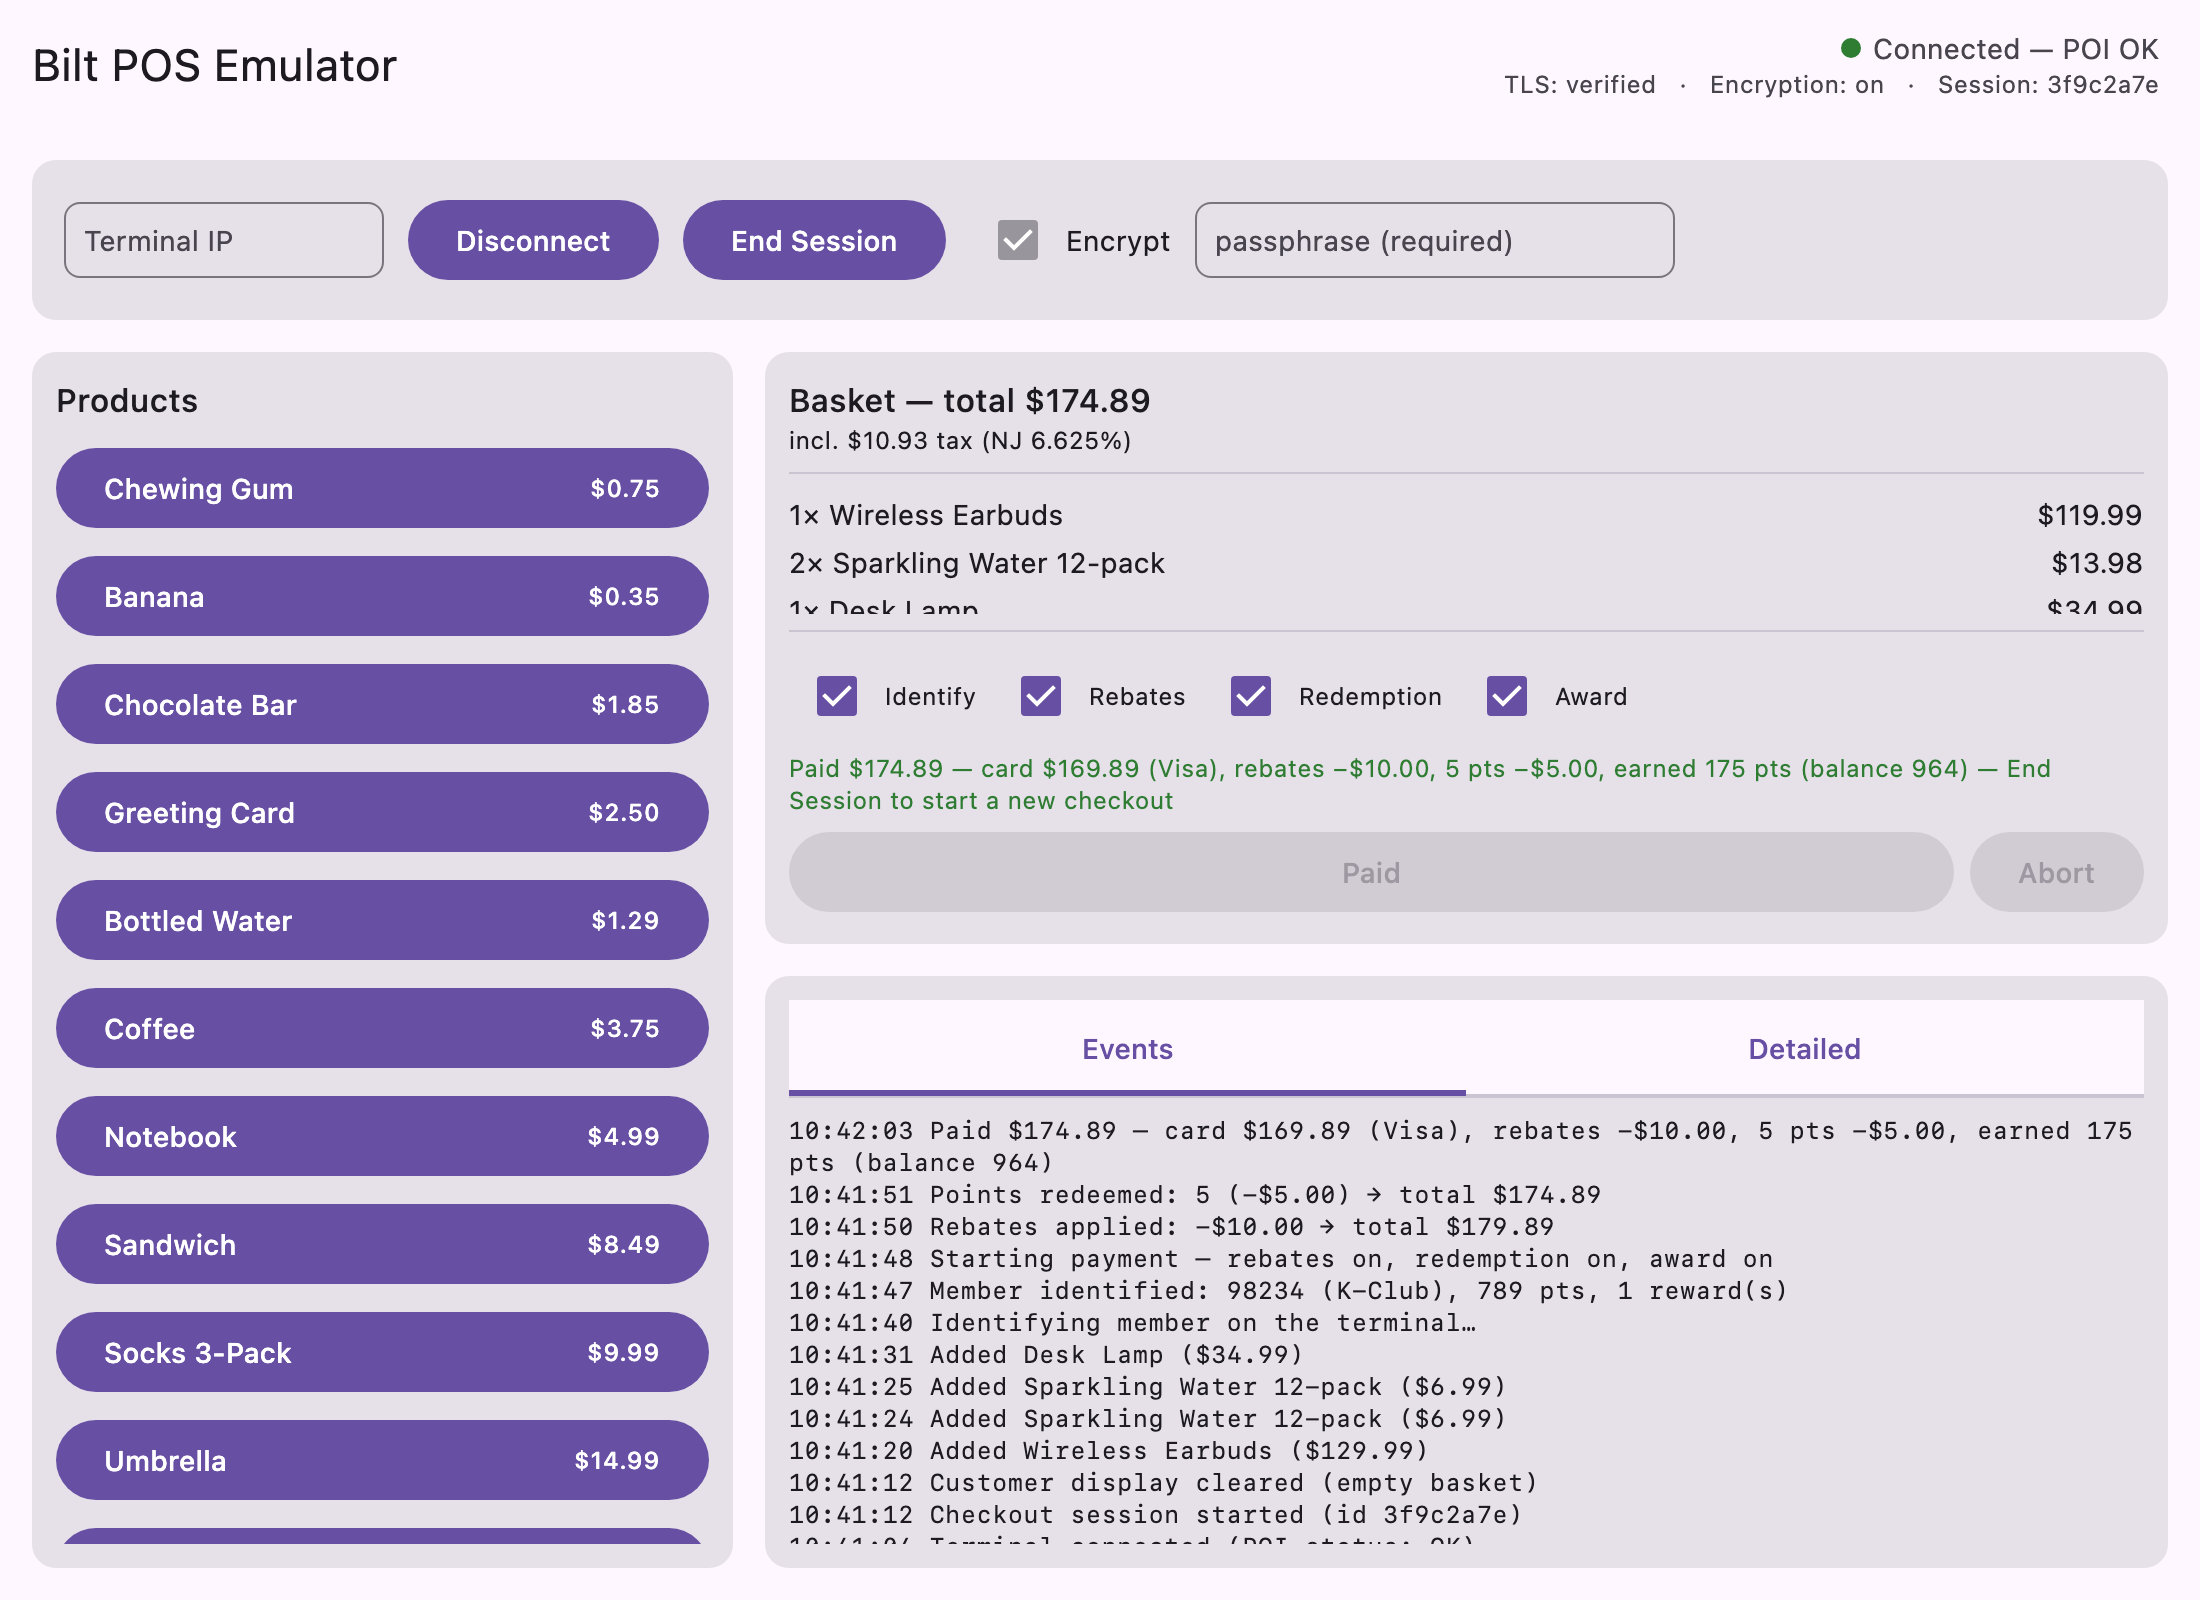
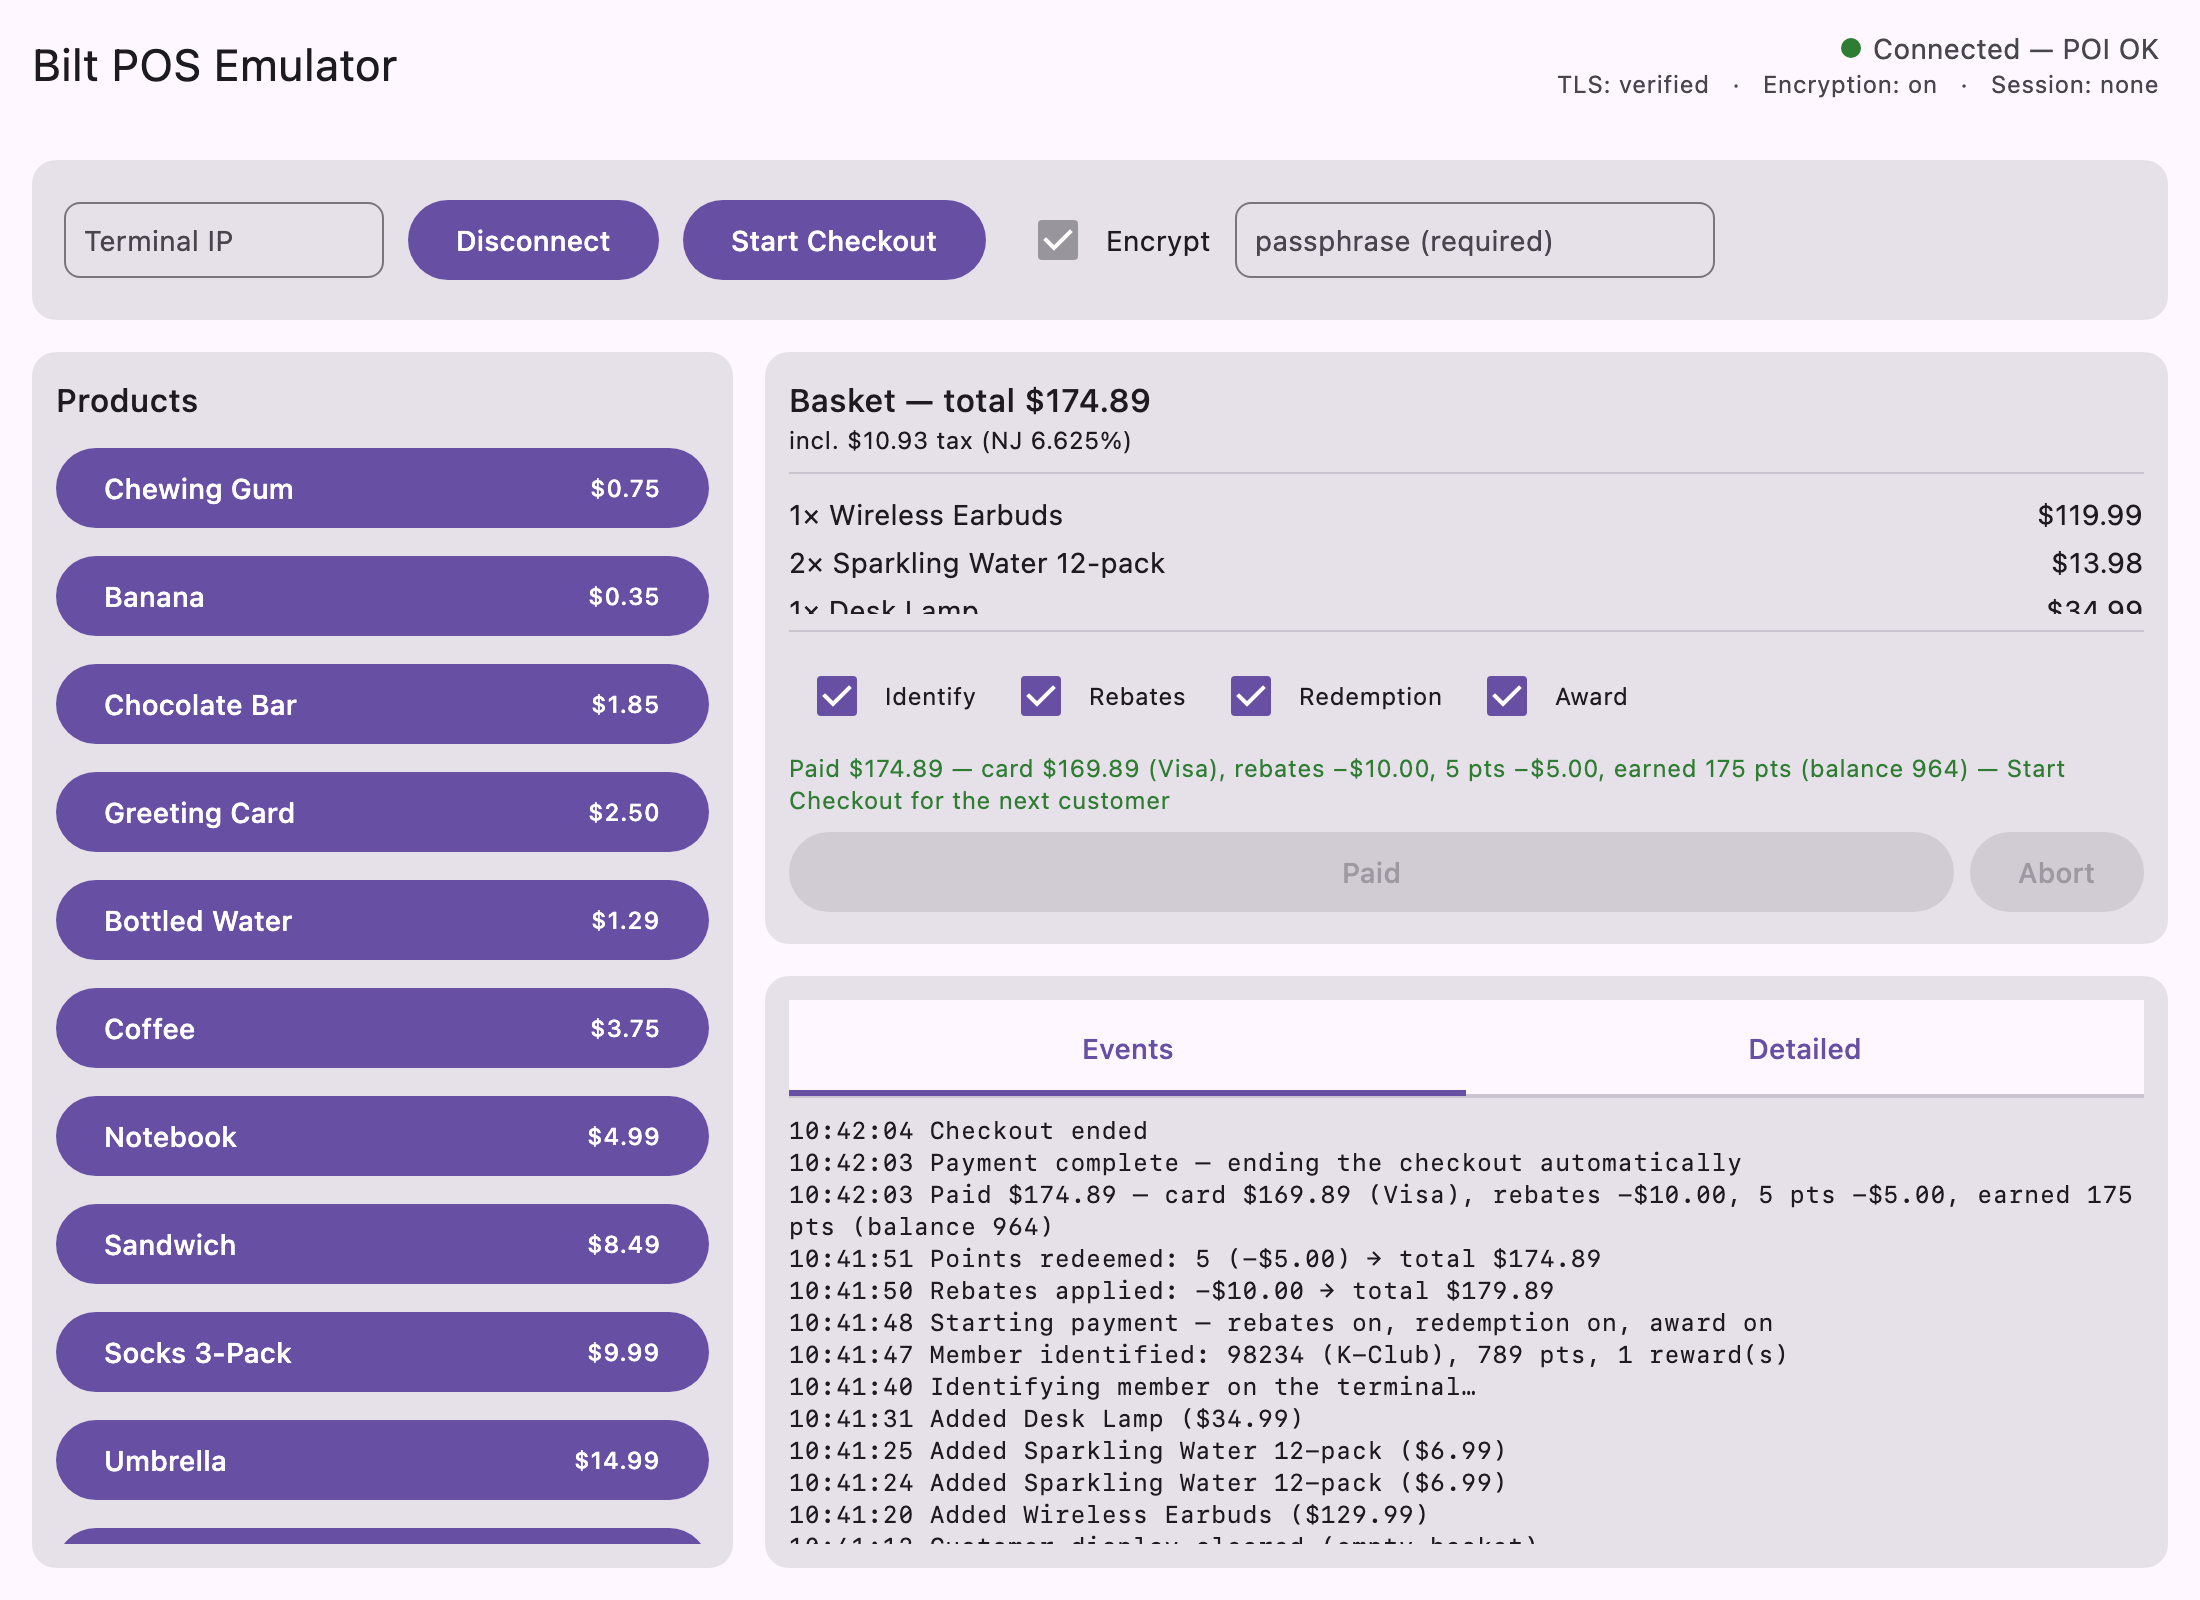
Auto-connect on autodetect, auto-end on full payment, Checkout wording
- A successful adb address autodetect now connects automatically
  (only from DISCONNECTED, so it never tears down a connection the
  operator made while adb was probing).
- A fully collected payment ends the checkout automatically; the
  basket and payment summary stay on screen until the next Start
  Checkout. If the auto-end fails, the hint points at End Checkout.
- Start/End Session buttons and messages renamed to Start/End
  Checkout; screenshots regenerated to match.

diff --git a/emulator/shared/src/jvmShared/kotlin/com/bilt/pos/emulator/session/NexoEmulatorController.kt b/emulator/shared/src/jvmShared/kotlin/com/bilt/pos/emulator/session/NexoEmulatorController.kt
@@ -49,8 +49,8 @@ import kotlin.time.Duration.Companion.seconds
  *
  * - **Connect** builds the client and runs the periodic diagnostics loop
  *   (raw nexo Diagnosis requests — pure connectivity, no session involved).
- * - **Start Session** opens a [CheckoutSession] (terminal Start bracket) on
- *   that connection: one session per customer checkout. **End Session**
+ * - **Start Checkout** opens a [CheckoutSession] (terminal Start bracket) on
+ *   that connection: one session per customer checkout. **End Checkout**
  *   closes it (End bracket). Disconnect ends any active session best-effort.
  *
  * Each connection is a self-contained [Connection]: its own scope (child of
@@ -118,6 +118,14 @@ class NexoEmulatorController(
             if (detected != null) {
                 _state.update { it.copy(terminalAddress = detected, addressAutodetected = true) }
                 log("Autodetected terminal address $detected via adb")
+                // The operator's next move after a successful detect is
+                // always Connect — do it for them. Only from DISCONNECTED:
+                // autodetect runs at startup and must never tear down a
+                // connection the operator made while adb was probing.
+                if (_state.value.connection.phase == ConnectionPhase.DISCONNECTED) {
+                    log("Connecting automatically to the detected terminal")
+                    connect(detected, _state.value.encryptionEnabled, null)
+                }
             } else {
                 log("Address autodetect found no adb device; enter the address manually")
             }
@@ -335,7 +343,7 @@ class NexoEmulatorController(
                 // Clear only on a successful End bracket — a failed end keeps
                 // the session held and retryable (the SDK doesn't seal it),
                 // instead of orphaning terminal session state with the UI
-                // offering Start Session. Disconnect remains the escape hatch.
+                // offering Start Checkout. Disconnect remains the escape hatch.
                 conn.session = null
                 if (currentCoroutineContext().isActive) {
                     _state.update {
@@ -361,7 +369,7 @@ class NexoEmulatorController(
     override fun addProduct(product: Product) {
         val conn = connection
         if (conn == null) {
-            log("No active checkout session — press Start Session first")
+            log("No active checkout session — press Start Checkout first")
             return
         }
         conn.scope.launch(conn.dispatcher) {
@@ -370,7 +378,7 @@ class NexoEmulatorController(
             // cleared for its End bracket
             val current = conn.session
             if (current == null) {
-                log("No active checkout session — press Start Session first")
+                log("No active checkout session — press Start Checkout first")
                 return@launch
             }
             try {
@@ -404,7 +412,7 @@ class NexoEmulatorController(
     override fun pay(loyalty: LoyaltyOptions) {
         val conn = connection
         if (conn == null) {
-            log("No active checkout session — press Start Session first")
+            log("No active checkout session — press Start Checkout first")
             return
         }
         // Claimed here, not inside the job: two quick Pay taps would both
@@ -420,7 +428,7 @@ class NexoEmulatorController(
         val job = conn.scope.launch(conn.dispatcher) {
             val session = conn.session
             if (session == null) {
-                log("No active checkout session — press Start Session first")
+                log("No active checkout session — press Start Checkout first")
                 return@launch
             }
             try {
@@ -474,15 +482,12 @@ class NexoEmulatorController(
                         log("Points redeemed: ${points.pointsUsed} (−$${points.monetaryValue.toPlainString()}) → total $${points.suggestedTotal.toPlainString()}")
                         points.suggestedTotal
                     }
-                    .onSuccess { result ->
-                        if (isActive) publishPaymentResult(result)
-                    }
                     .onError { error ->
                         session.updateDisplay(session.basket)
                         if (isActive) log("Payment failed: ${error.code} — ${error.message}")
                         PaymentOptions.voidAndAbort()
                     }
-                try {
+                val result = try {
                     flow.get()
                 } catch (e: SessionException) {
                     // ABORTED bypasses onError by design (the register asked
@@ -494,6 +499,24 @@ class NexoEmulatorController(
                             "Payment aborted; committed steps reversed — " +
                                 "the basket is intact, Pay again to retry"
                         )
+                    }
+                    null
+                }
+                if (result != null && isActive) {
+                    publishPaymentResult(result)
+                    // The checkout is collected in full (pay() completes
+                    // only then) — end the session for the operator. The
+                    // basket and payment summary stay on screen; Start
+                    // Checkout clears them for the next customer.
+                    log("Payment complete — ending the checkout automatically")
+                    try {
+                        session.end().get()
+                        conn.session = null
+                        _state.update { it.copy(sessionId = null) }
+                        log("Checkout ended")
+                    } catch (e: Exception) {
+                        log("Failed to end the checkout: ${e.message} — press End Checkout to retry")
+                        detailedLog(e.stackTraceToString())
                     }
                 }
             } catch (e: Exception) {

diff --git a/emulator/shared/src/commonMain/kotlin/com/bilt/pos/emulator/EmulatorApp.kt b/emulator/shared/src/commonMain/kotlin/com/bilt/pos/emulator/EmulatorApp.kt
@@ -200,7 +200,7 @@ private fun ConnectionPanel(state: EmulatorState, controller: EmulatorController
                         enabled = connected,
                         modifier = modifier,
                     ) {
-                        Text(if (sessionActive) "End Session" else "Start Session")
+                        Text(if (sessionActive) "End Checkout" else "Start Checkout")
                     }
                 }
                 if (compact) {
@@ -402,7 +402,7 @@ private fun PaymentControls(state: EmulatorState, controller: EmulatorController
     var redemption by rememberSaveable { mutableStateOf(true) }
     var award by rememberSaveable { mutableStateOf(true) }
 
-    // One payment per session: pay again only after End Session
+    // One payment per checkout: pay again only after the next Start Checkout
     val paid = state.lastPayment != null
     val canPay = state.sessionId != null && state.basket.isNotEmpty() &&
         !state.paymentInProgress && !paid
@@ -419,8 +419,15 @@ private fun PaymentControls(state: EmulatorState, controller: EmulatorController
             LoyaltyCheckbox("Award", award, !state.paymentInProgress) { award = it }
         }
         if (paid) {
+            // the checkout auto-ends on full payment; the hint covers the
+            // fallback where that end failed and the session is still open
+            val next = if (state.sessionId == null) {
+                "Start Checkout for the next customer"
+            } else {
+                "End Checkout to start the next one"
+            }
             Text(
-                "${state.lastPayment} — End Session to start a new checkout",
+                "${state.lastPayment} — $next",
                 style = MaterialTheme.typography.bodySmall,
                 color = Color(0xFF2E7D32),
             )

diff --git a/emulator/shared/src/commonMain/kotlin/com/bilt/pos/emulator/session/EmulatorState.kt b/emulator/shared/src/commonMain/kotlin/com/bilt/pos/emulator/session/EmulatorState.kt
@@ -80,8 +80,9 @@ data class EmulatorState(
     val basketTax: String = "0.00",
     /** True while a payment (and its member identification) is on the wire. */
     val paymentInProgress: Boolean = false,
-    /** One-line summary of the session's completed payment; null until paid.
-     *  A completed session takes no further payment — end it to start anew. */
+    /** One-line summary of the checkout's completed payment; null until
+     *  paid. A fully collected payment ends the checkout automatically; the
+     *  summary stays visible until the next one starts. */
     val lastPayment: String? = null,
     /** Curated one-line event feed shown on the Events tab. */
     val events: List<String> = emptyList(),
@@ -96,7 +97,9 @@ data class EmulatorState(
 interface EmulatorController {
     val state: StateFlow<EmulatorState>
 
-    /** Try to prefill the terminal address (adb-based on desktop). */
+    /** Try to prefill the terminal address (adb-based on desktop); when
+     *  detection succeeds and nothing is connected yet, connects to the
+     *  detected terminal automatically. */
     fun autodetectAddress()
 
     /**

diff --git a/emulator/shared/src/desktopTest/kotlin/com/bilt/pos/emulator/ScreenshotGenerator.kt b/emulator/shared/src/desktopTest/kotlin/com/bilt/pos/emulator/ScreenshotGenerator.kt
@@ -88,6 +88,8 @@ class ScreenshotGenerator {
         render(midCheckout, File(dir, "emulator-mid-checkout.png"))
 
         val paid = midCheckout.copy(
+            // a fully collected payment ends the checkout automatically
+            sessionId = null,
             basket = midCheckout.basket.map {
                 if (it.sku == "SKU-014") it.copy(lineTotal = "119.99") else it
             },
@@ -102,6 +104,8 @@ class ScreenshotGenerator {
                 "10:41:51 Points redeemed: 5 (−$5.00) → total $174.89",
                 "10:42:03 Paid $174.89 — card $169.89 (Visa), rebates −$10.00, " +
                     "5 pts −$5.00, earned 175 pts (balance 964)",
+                "10:42:03 Payment complete — ending the checkout automatically",
+                "10:42:04 Checkout ended",
             ),
         )
         render(paid, File(dir, "emulator-paid.png"))
